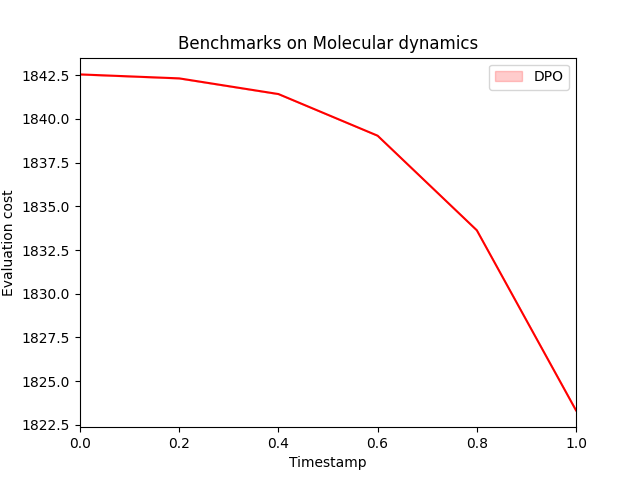
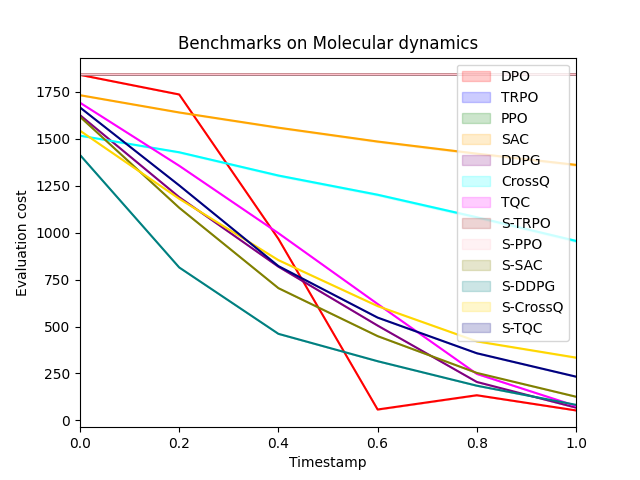
Update benchmark run

diff --git a/benchmarks_run.py b/benchmarks_run.py
@@ -12,15 +12,15 @@ DEFAULT_GAMMA = 0.99
 ALL_COLORS = ["red", "blue", "green", "orange", "purple", "cyan", "magenta", "brown", "pink", "olive", "teal", "gold", "navy"]
 
 
-seeds = [42] #, 75, 105, 122, 137, 203, 381, 411, 437, 479]
+seeds = [42, 75, 105, 122, 137, 203, 381, 411, 437, 479]
 
 # Datasets (columns)
-datasets = ['molecule'] #['shape_boundary', 'shape', 'molecule']
+datasets = ['shape_boundary', 'shape', 'molecule']
 
 # Algo (rows): 1 DPO, 5 benchmark, 5 naive benchmark
-algorithms = ['DPO_zero_order'] #,
-              #'TRPO', 'PPO', 'SAC', 'DDPG', 'CrossQ', 'TQC',
-              #'S-TRPO', 'S-PPO', 'S-SAC', 'S-DDPG', 'S-CrossQ', 'S-TQC']
+algorithms = ['DPO_zero_order',
+              'TRPO', 'PPO', 'SAC', 'DDPG', 'CrossQ', 'TQC',
+              'S-TRPO', 'S-PPO', 'S-SAC', 'S-DDPG', 'S-CrossQ', 'S-TQC']
 
 # Gamma values
 env_to_gamma = {

diff --git a/envs/molecule.py b/envs/molecule.py
@@ -65,16 +65,7 @@ class Molecule(BBO):
     def reset_at(self, mode='random'):
         if mode == 'random':
             self.state = self.reset_scale*(self.rng.random(self.state_dim)-.5)
-        elif mode == 'test':
-            not_ok = True
-            while not_ok:
-                self.discount = 1.0
-                self.state = self.reset_scale*(self.rng.random(self.state_dim)-.5)
-                for k in range(self.num_residue):
-                    self.pose.set_phi(k+1, self.state[2*k]) 
-                    self.pose.set_psi(k+1, self.state[2*k+1])
-                val = self.sfxn(self.pose)
-                not_ok = val < 1800
+
         return np.array(self.state)
 
     def render(self):
